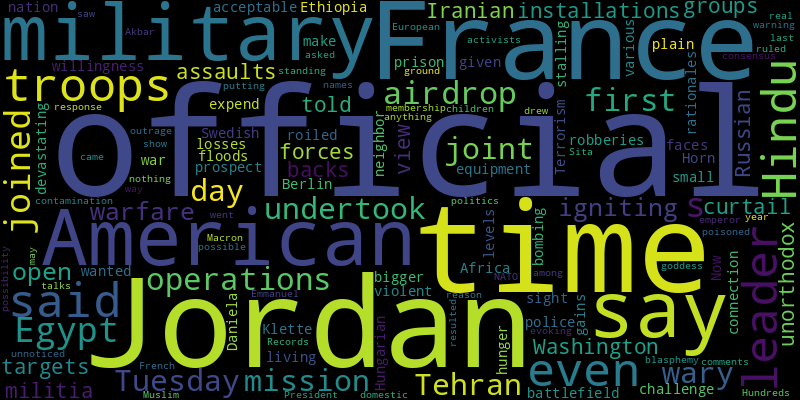
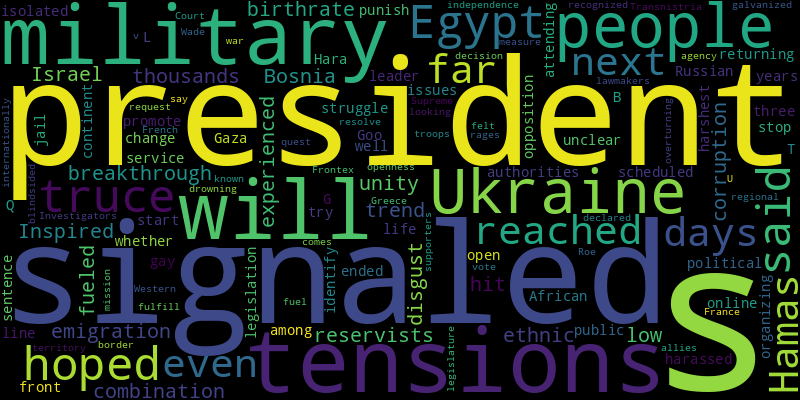
chore(bot): 🙈 auto commit

diff --git a/README.md b/README.md
@@ -2,41 +2,41 @@
 Auto RSS New York Times and Generate Word Cloud
 
 ## New York Times Global News
-* Egypt joined Jordan’s airdrop operations for the first time on Tuesday, a day after a joint mission Jordan undertook with France.
-* Tehran, wary of igniting open warfare with Washington, has told militia groups it backs to curtail assaults on targets such as military installations, Iranian and American officials say.
-* Russian forces have an unorthodox view of acceptable levels of military losses, with a willingness to expend troops and equipment to make even small gains on the battlefield.
-* Terrorism, hunger and devastating floods have roiled the Horn of Africa nation. Now, it faces an even bigger challenge: the prospect of war with a neighbor, Ethiopia.
-* Daniela Klette, who was wanted in connection with the bombing of a prison and violent robberies, was living in plain sight in Berlin, the police say.
-* The Hungarian leader has given various rationales for stalling Swedish membership in NATO. The real reason may have to do with his own standing and domestic politics.
-* Hundreds of American children were poisoned last year. Records show how, time and again, the contamination went unnoticed.
-* The warning came in response to comments by President Emmanuel Macron of France, who said “nothing should be ruled out” when asked about the possibility.
-* The names, Sita and Akbar, evoking a Hindu goddess and a Muslim emperor, drew outrage from Hindu activists who saw it as blasphemy.
-* The French leader said that talks had not resulted in any consensus among European officials on putting troops on the ground in an “official” way, but that “anything is possible.”
+* The president of Egypt said he hoped a truce could be reached “in the next few days,” even as Hamas signaled it was far from a breakthrough with Israel.
+* Bosnia is being hit by a combination of a low birthrate and emigration, a trend fueled by ethnic tensions and disgust with corruption.
+* Inspired by the unity they experienced in the military, thousands of reservists returning from the front line in Gaza are organizing for political change.
+* Goo Hara’s life was a struggle from the start. She ended it at 28, isolated and harassed online.
+* A scheduled service for the Russian opposition leader will be open to the public, but it is unclear whether the authorities will try to stop people from attending.
+* The legislation would sentence those who identify as L.G.B.T.Q. to three years in jail and punish those who promote gay issues as well. It would be among the harshest on the African continent.
+* Investigators looking into the drowning of more than 600 people off Greece say that the border agency known as Frontex cannot fulfill its mission.
+* Transnistria declared independence in 1992 but is not recognized internationally. The request by the territory’s legislature could fuel regional tensions as the war in Ukraine rages.
+* The vote by lawmakers comes after supporters of the measure in France were galvanized by the U.S. Supreme Court’s decision overturning Roe v. Wade.
+* The French president’s openness to Western troops in Ukraine signaled a quest for military resolve. But some allies felt blindsided.
 
 ![Global](./global.png)
 ## New York Times United States News
-* A judge brought the witness back to court as he weighs whether the prosecutors leading the Georgia election case against Donald Trump have a disqualifying conflict of interest.
-* An unseasonably warm winter peaked on Tuesday with melting ice rinks and 70-degree weather. Temperatures will plummet from there, but even so, this winter without winter has left some people rattled.
-* A lower court had mostly blocked enforcement of a state law that banned gender-transition care for minors, but a federal appellate court lifted that injunction on Tuesday.
-* A nursing student’s body was found on Thursday at the University of Georgia in Athens. The authorities called the homicide “a crime of opportunity.”
-* The 2,000-mile frontier has become a symbol in American politics as the debate over immigration grows increasingly polarized.
-* The recruitment of Larry Hogan in Maryland served as a capstone to months of quiet success for Senate Republicans, after years of recruiting disappointments.
-* Democrats warned that the proposed legislation, which would allow civil lawsuits over the death of a fetus, would affect fertility treatments.
-* The former prison known as the Rock faces seismic activity, climate change and general deterioration. A wondrous new map could help save it.
-* The Supreme Court will hear arguments on Wednesday about the Trump administration rule put in place by the A.T.F. after the Las Vegas massacre.
-* President Biden endured a protest vote, Donald Trump fended off Nikki Haley again, and both may face challenges with their party coalitions as they start to look toward November.
+* Aaron Bushnell, the cyberdefense operations specialist who lit himself on fire to protest Israel’s killing of Palestinians, had left an isolated Christian community for the Air Force before turning to activism.
+* One of the wildfires, the Smokehouse Creek fire near the cattle-country town of Canadian, is now the second-largest ever recorded in Texas.
+* The urgency underscores the bind for the party, which has long maintained that life begins at conception but must now reconcile that stance with broad support for I.V.F.
+* The judge, a Democrat, stayed her ruling until Friday, leaving Donald J. Trump’s team time to appeal the decision.
+* Cooler temperatures Thursday were expected to give firefighters a chance to control the large fire before more dangerous conditions arrived this weekend.
+* The Transportation Department said the proposed regulations would make it easier to hold airlines accountable for mishandling passengers’ wheelchairs.
+* Illegal crossings have dropped in the last month, but the migrant crisis still defines life on the border, where many are skeptical that Biden or Trump can help.
+* The president ordered an investigation into auto software that could track U.S. drivers, part of a broader effort to stop E.V. imports from China.
+* After leaving Venezuela, he entered the U.S. through Texas and stopped in New York before living in Georgia.
+* In the aftermath of the attacks, interrogators were determined to get Khalid Shaikh Mohammed to discuss Al Qaeda’s future plans, a psychologist testified.
 
 ![US](./usnews.png)
 ## New York Times Asia News
+* The president ordered an investigation into auto software that could track U.S. drivers, part of a broader effort to stop E.V. imports from China.
+* The trend lines may be grim, but the Japanese aren’t sweating them.
+* Dozens of unattended fuel stations across the country stopped working on Thursday for hours because of a software issue.
+* More than a week after thousands of doctors walked off the job, their dispute with the government shows no signs of resolution.
+* China has no dissident with the kind of public profile that Aleksei A. Navalny had. The government has many critics, but they all disappear from view.
+* Plus a protest vote against President Biden.
+* Goo Hara’s life was a struggle from the start. She ended it at 28, isolated and harassed online.
+* Mukesh Ambani’s Reliance Industries will control what is left of Disney’s grasp at India’s burgeoning media market.
 * The legal change, which could further limit access to information, is part of an increasingly hostile environment facing foreign businesses in the country.
 * Country Garden was once China’s biggest developer but ran out of money. A lender is taking it to court in Hong Kong, a sign of continuing market distress.
-* Plus, the latest on a possible cease-fire in Gaza.
-* The names, Sita and Akbar, evoking a Hindu goddess and a Muslim emperor, drew outrage from Hindu activists who saw it as blasphemy.
-* His soulful renditions of ghazals, or traditional love poems, were featured on the soundtracks of hit Bollywood movies and moved generations of Indians.
-* Plus, movement in a possible Israel-Hamas deal.
-* The privately built American spacecraft’s ability to send home images and other data has been limited by its sideways landing. On another part of the moon, a Japanese spacecraft woke up.
-* Plus a look at public sentiment in Ukraine.
-* A bitter but successful battle with Danone of France for control of a joint venture made him the richest person in China for a time.
-* The cost of business in Asia’s elite tournament keeps going up. The rewards do not.
 
 ![Asian](./asian.png)
